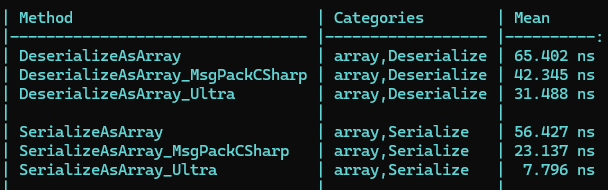
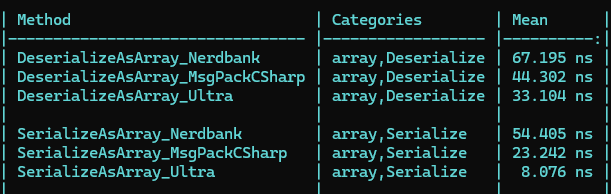
a

diff --git a/article_img/uploader.md b/article_img/uploader.md
@@ -1,1 +1,1 @@
-![alt text](image.png)
+![alt text](image.png)![alt text](image.png)